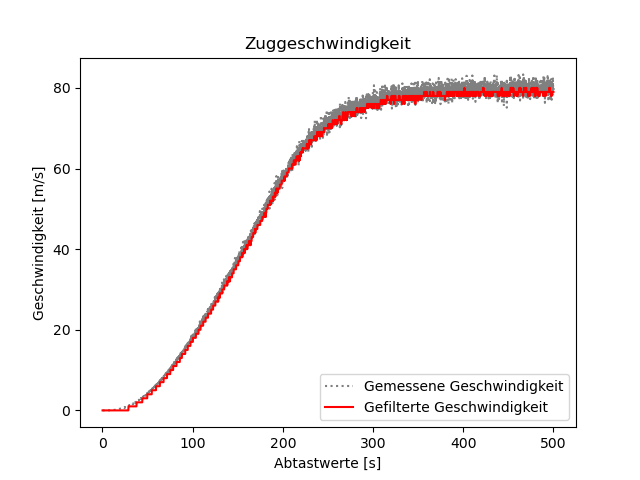
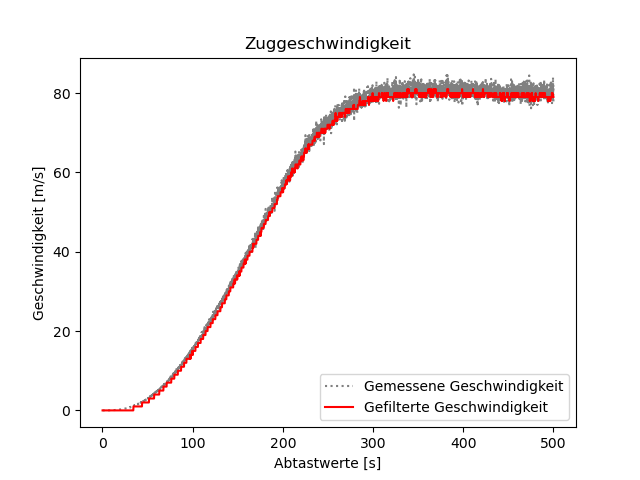
PT2-Systemgleichung korregiert

diff --git a/src/device.cpp b/src/device.cpp
@@ -2,6 +2,7 @@
 #include "matrix.hpp"
 #include <iostream>
 #include <iomanip>
+#include <math.h>
 
 
 Device::Device( double velocity_target, // m/s
@@ -31,15 +32,20 @@ Device::Device( double velocity_target, // m/s
 
     // PT2
     // Systemnatix A
+    double a1 = -par_r / (par_m * dt);
+    double a0 = -par_c / (par_m * pow(dt, 2));
+
     _system_PT2_A = {{
-        {0.0, -par_r/par_m, -par_c/par_m}, 
-        { dt,          1.0,          0.0},
-        {0.0,           dt,          1.0} 
+        {0.0,  a1,  a0}, 
+        { dt, 1.0, 0.0},
+        {0.0,  dt, 1.0} 
     }};
 
     // Eingangsvektor b
+    double b0 = 1.0 / (par_m * pow(dt, 2));
+
     _input_PT2_b = {
-        1.0/par_m,
+         b0,
         0.0,
         0.0
     };

diff --git a/src/main.cpp b/src/main.cpp
@@ -15,8 +15,8 @@ namespace TestSet
     constexpr double dt { 0.1 };    // 100ms
     
     // PT2-Werte des Feder-Dämpfer-Systems
-    constexpr double par_m { 1000.0 };
-    constexpr double par_r { 70 };
+    constexpr double par_m { 200000.0 };
+    constexpr double par_r { 700 };
     constexpr double par_c { 1 };
 
     // Rampen für 3min

diff --git a/README.md b/README.md
@@ -32,7 +32,7 @@ Schreibe den Ablauf des Blockschaltbilds in kommentarform auf:
 -   Definere das Testset. 
     -   Ein stehender Zug beschleunigt gemäß Sollvorgabe auf eine Zielgeschwindigkeit Geschwindigkeit.
     -   Ein Messgerät misst die Geschwindigkeit und ermittelt daraus die aktuelle Position. 
--   Die Messung soll 15s mit einer Auflösung von 100ms dauern.
+-   Die Messung soll 500s mit einer Auflösung von 100ms dauern.
 -   Für die Iteration der Abtaswerte soll die "for_each_iter"-Funktion verwendet werden.
 
 
@@ -288,7 +288,7 @@ Für die Berechnung des PT2s und der neuen Position wird Matrizenberechnung verw
 
 **PT2**
 <br>
-<img src="./images/system_equation2.png" alt="Sytemgleichung" width="75%" height="75%"/> 
+<img src="./images/system_equation2.png" alt="Sytemgleichung" width="90%" height="90%"/> 
 
 ```C++
 // ...
